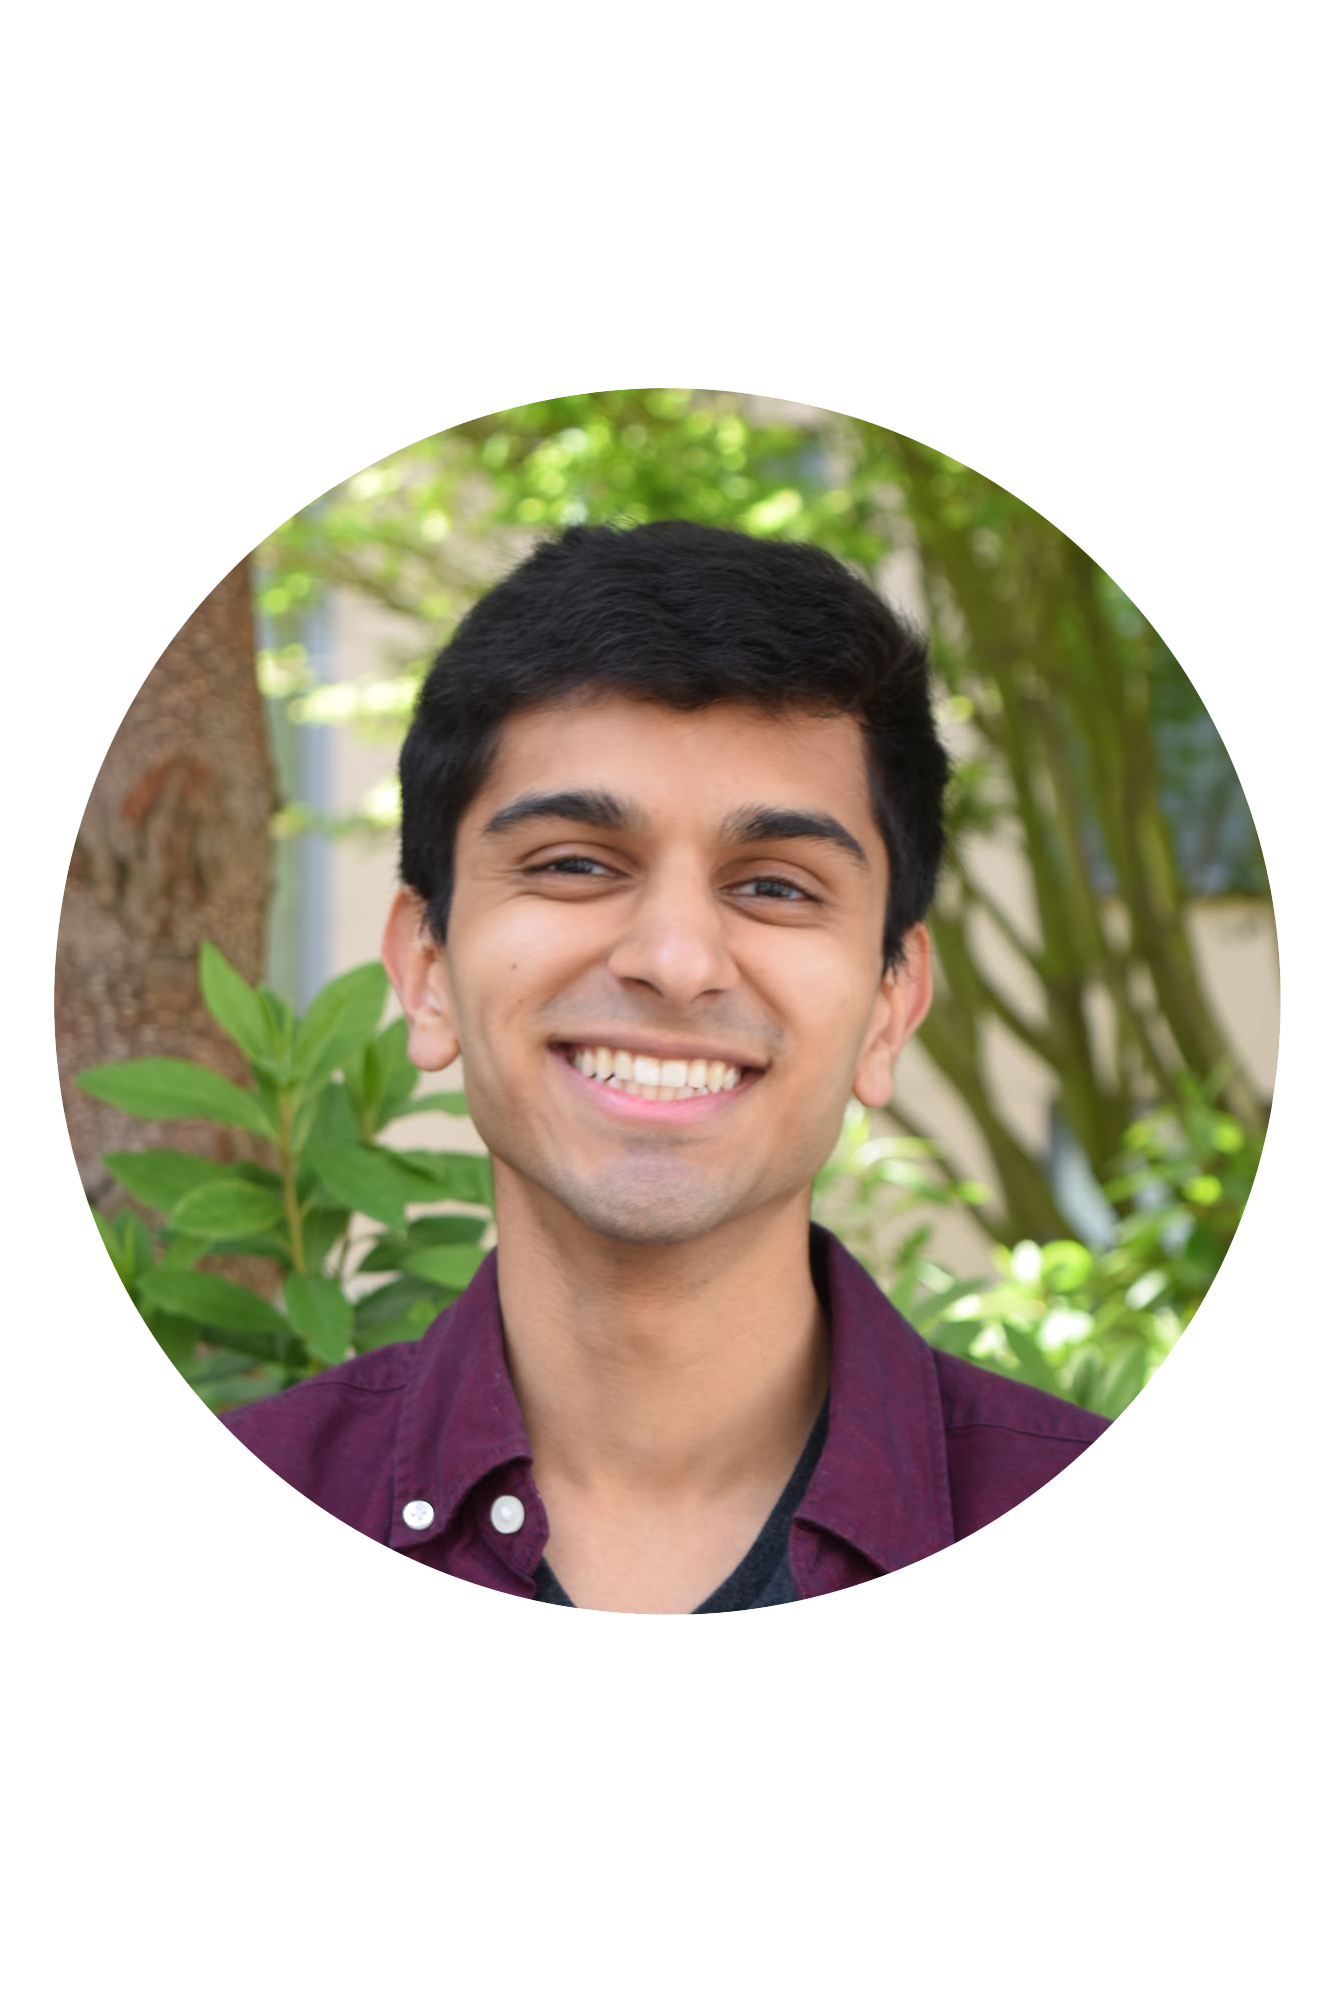
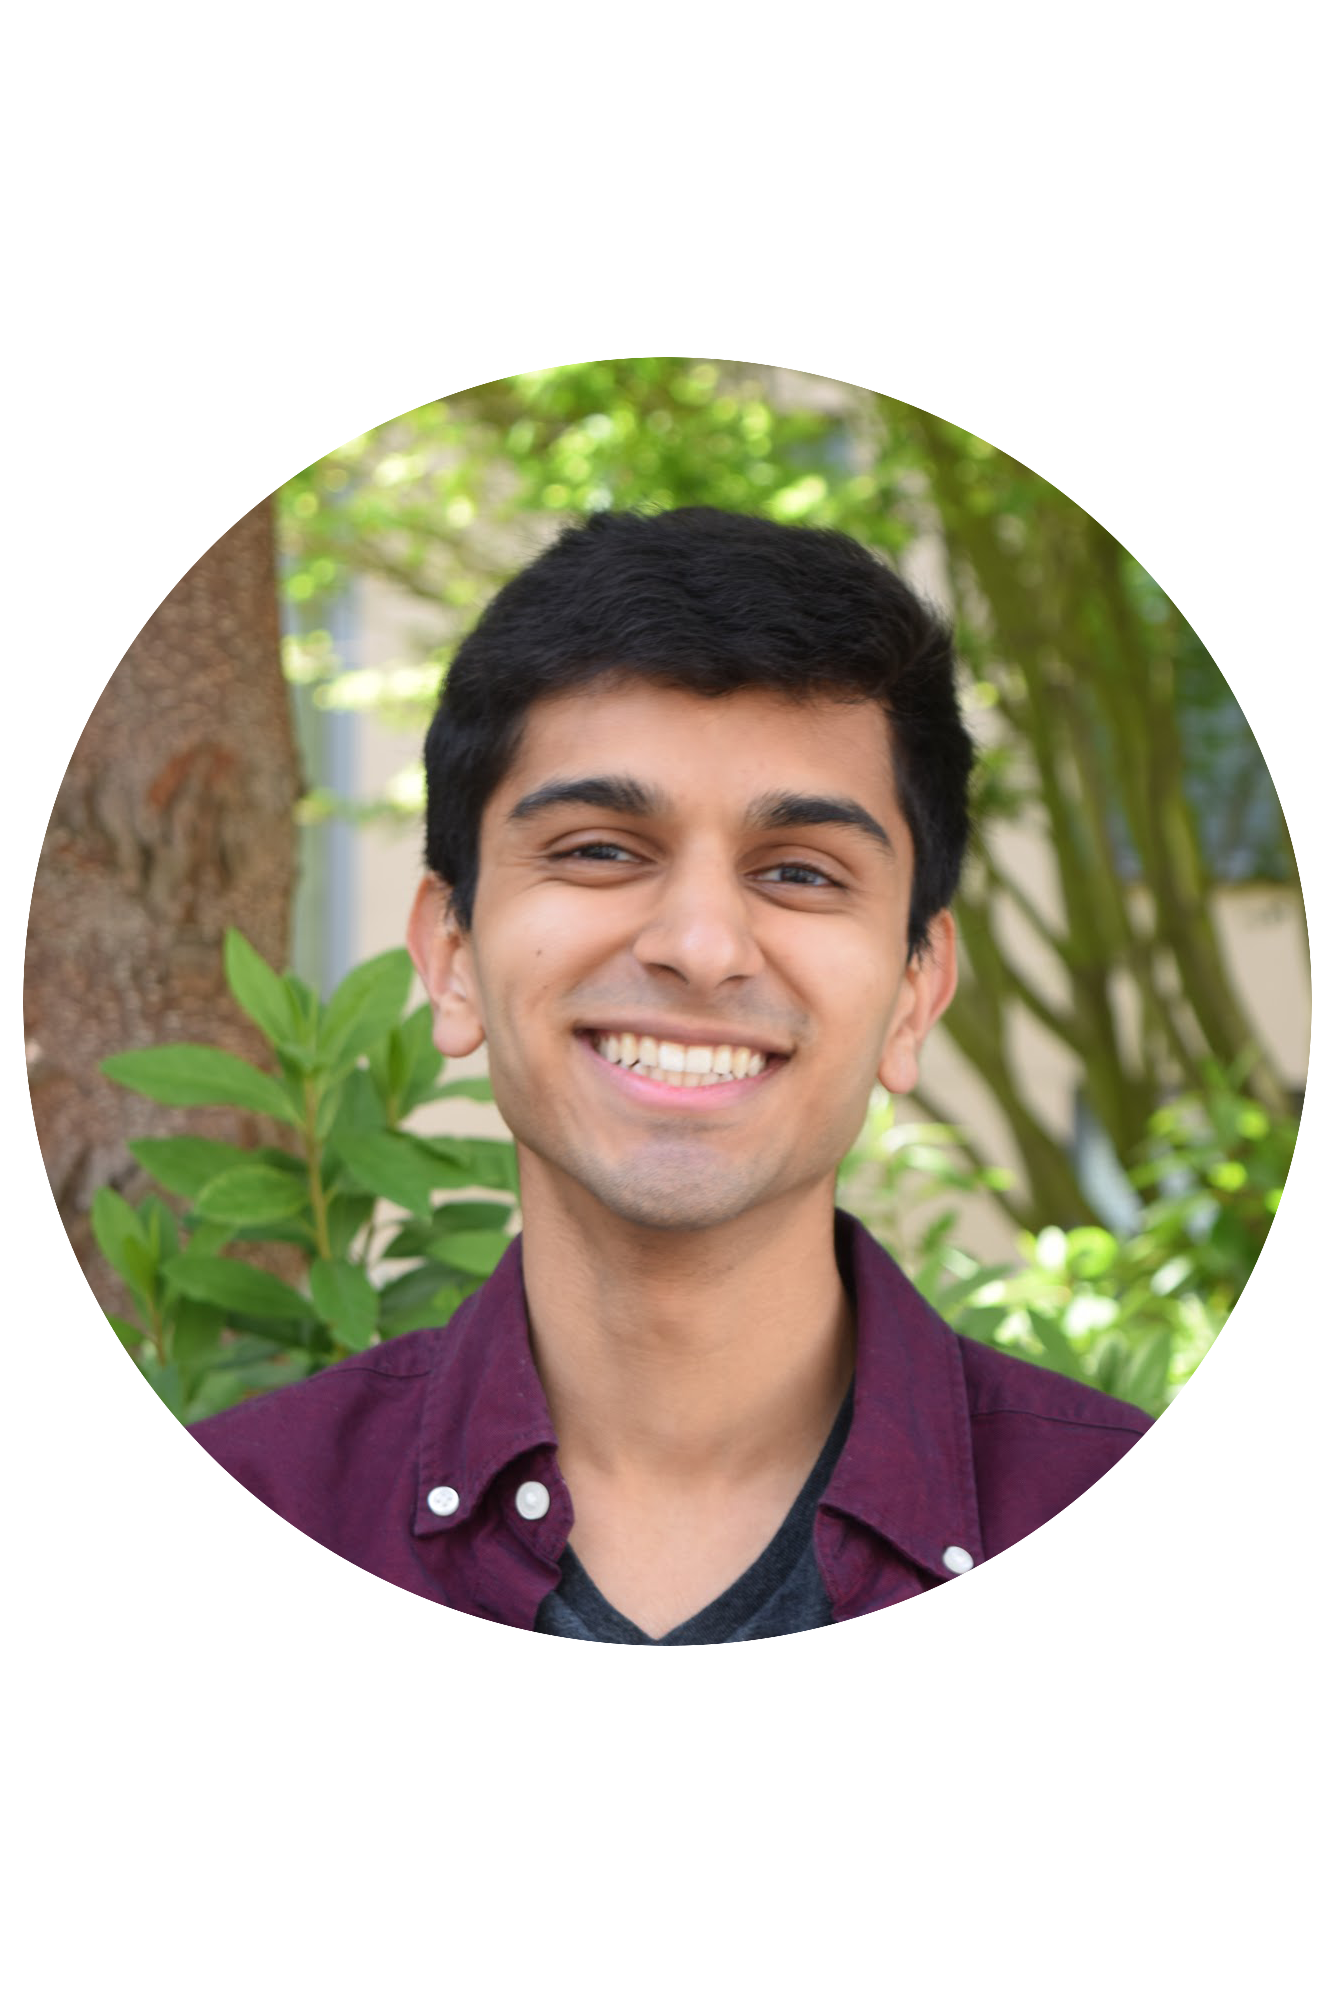
fixing bugs...

Changed region(s): [[0.0, 0.1548, 0.9828, 0.8357], [0.4914, 0.65, 0.5221, 0.681], [0.4607, 0.7119, 0.4914, 0.7429]]

diff --git a/index.html b/index.html
@@ -62,7 +62,7 @@
   <svg>
     <defs>
       <pattern id="face" height="100%" width="100%" patternContentUnits="objectBoundingBox">
-        <image height="1" width="1" preserveAspectRatio="none" xmlns:xlink="http://www.w3.org/1999/xlink" xlink:href="https://raw.githubusercontent.com/kaushalpartani/kaushalpartani.github.io/master/static/images/DSC_0020.JPG"></image>
+        <image height="1" width="1" preserveAspectRatio="none" xmlns:xlink="http://www.w3.org/1999/xlink" xlink:href="https://raw.githubusercontent.com/kaushalpartani/kaushalpartani.github.io/master/static/images/DSC_0020.png"></image>
       </pattern>
     </defs>
   </svg>
